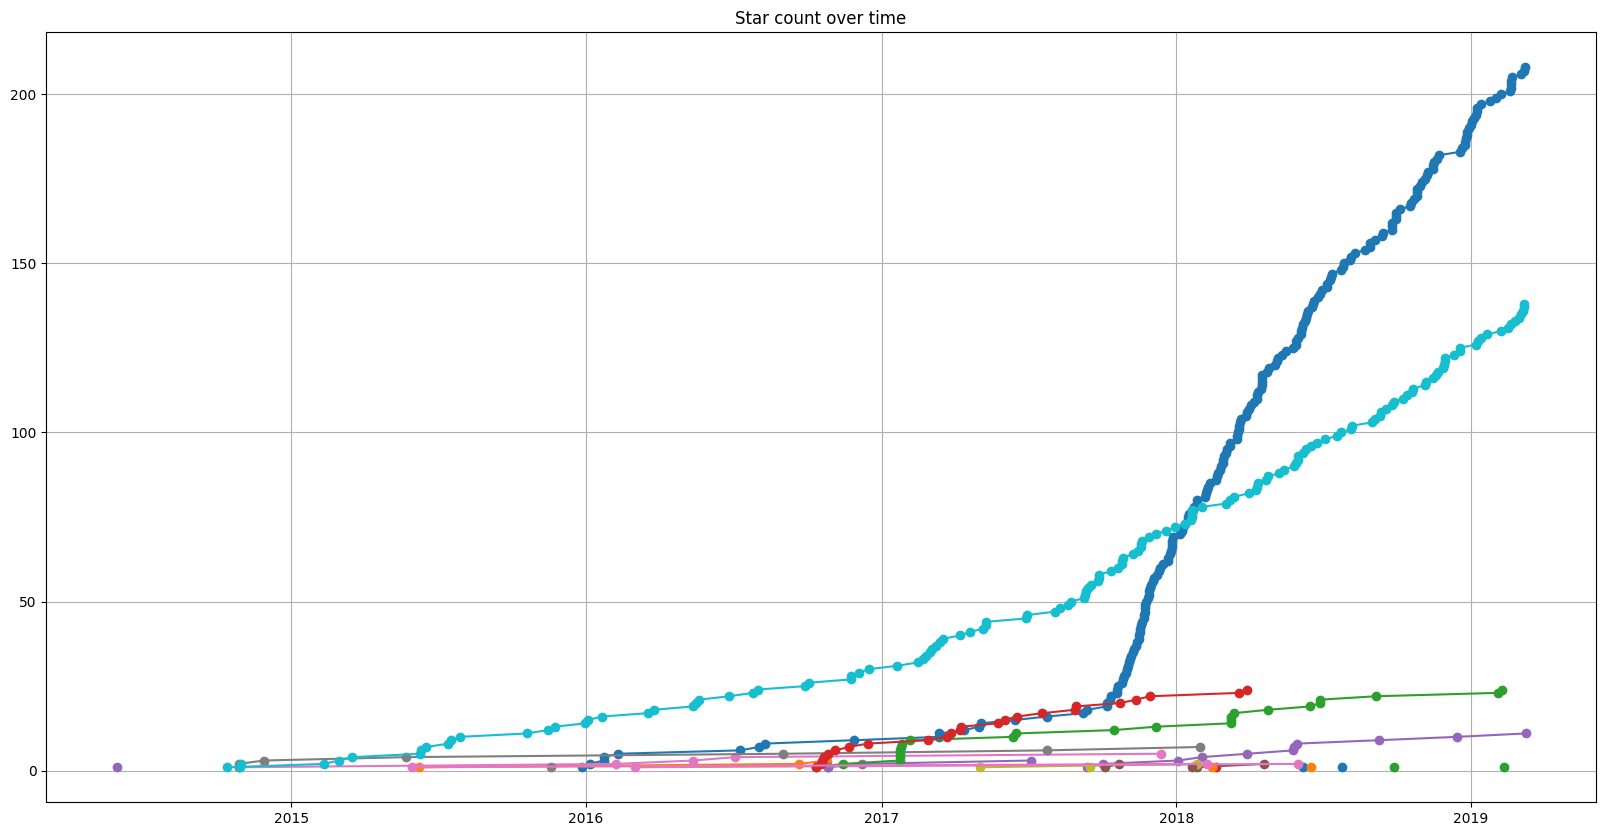
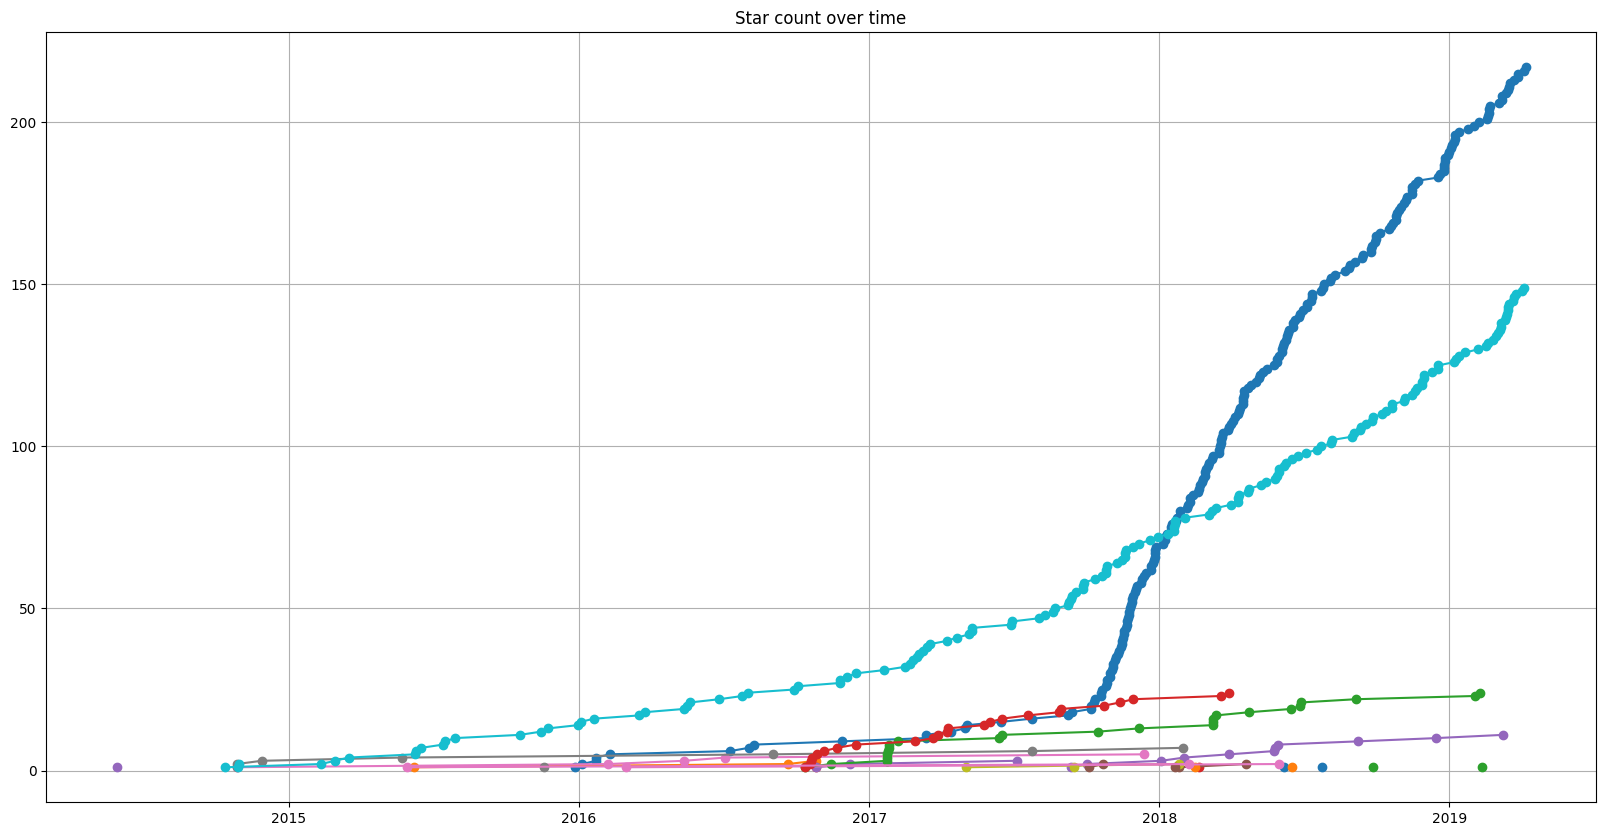
update

diff --git a/README.md b/README.md
@@ -3,7 +3,7 @@
 
 ![star plot](https://raw.github.com/FabriceSalvaire/github-map/master/star-plots/all.png)
 
-Overall stars: 447 :star:
+Overall stars: 467 :star:
 
 ## Python Packages
 
@@ -45,17 +45,17 @@ Overall stars: 447 :star:
 
 ## Python Tools for Developers
 
-* [CodeReview](https://github.com/FabriceSalvaire/CodeReview) 208 :star:</br>
+* [CodeReview](https://github.com/FabriceSalvaire/CodeReview) 217 :star:</br>
 
    CodeReview is a Git GUI tool to perform code review (Diff Viewer) written in Python3 and Qt5.
 
-   Updated on 2019-03-09
+   Updated on 2019-04-07
 
 * [github-map](https://github.com/FabriceSalvaire/github-map)
 
    A summary of my projects on Github (using API and Python)
 
-   Updated on 2019-03-09
+   Updated on 2019-03-11
 
 * [python-memo](https://github.com/FabriceSalvaire/python-memo)
 
@@ -181,11 +181,11 @@ Overall stars: 447 :star:
 
 ## Python for Electronic
 
-* [PySpice](https://github.com/FabriceSalvaire/PySpice) 138 :star:</br>
+* [PySpice](https://github.com/FabriceSalvaire/PySpice) 149 :star:</br>
 
    Simulate electronic circuit using Python and the Ngspice / Xyce simulators
 
-   Updated on 2019-03-11
+   Updated on 2019-04-04
 
 * [PyCpuSimulator](https://github.com/FabriceSalvaire/PyCpuSimulator) 2 :star:</br>
 
@@ -253,7 +253,7 @@ Overall stars: 447 :star:
 
    Musica is a Python toolkit for computational music.
 
-   Updated on 2018-11-30
+   Updated on 2019-03-28
 
 * [Musica-data](https://github.com/FabriceSalvaire/Musica-data)
 
@@ -295,7 +295,7 @@ Overall stars: 447 :star:
 
    An application to digitise and read books (Python3 Qt5 QML)
 
-   Updated on 2019-03-05
+   Updated on 2019-04-06
 
 * [biblio-data](https://github.com/FabriceSalvaire/biblio-data)
 
@@ -385,7 +385,7 @@ Overall stars: 447 :star:
 
    Some MAO Fedora packages
 
-   Updated on 2017-10-22
+   Updated on 2019-03-16
 
 * [copr-ngspice](https://github.com/FabriceSalvaire/copr-ngspice)
 
